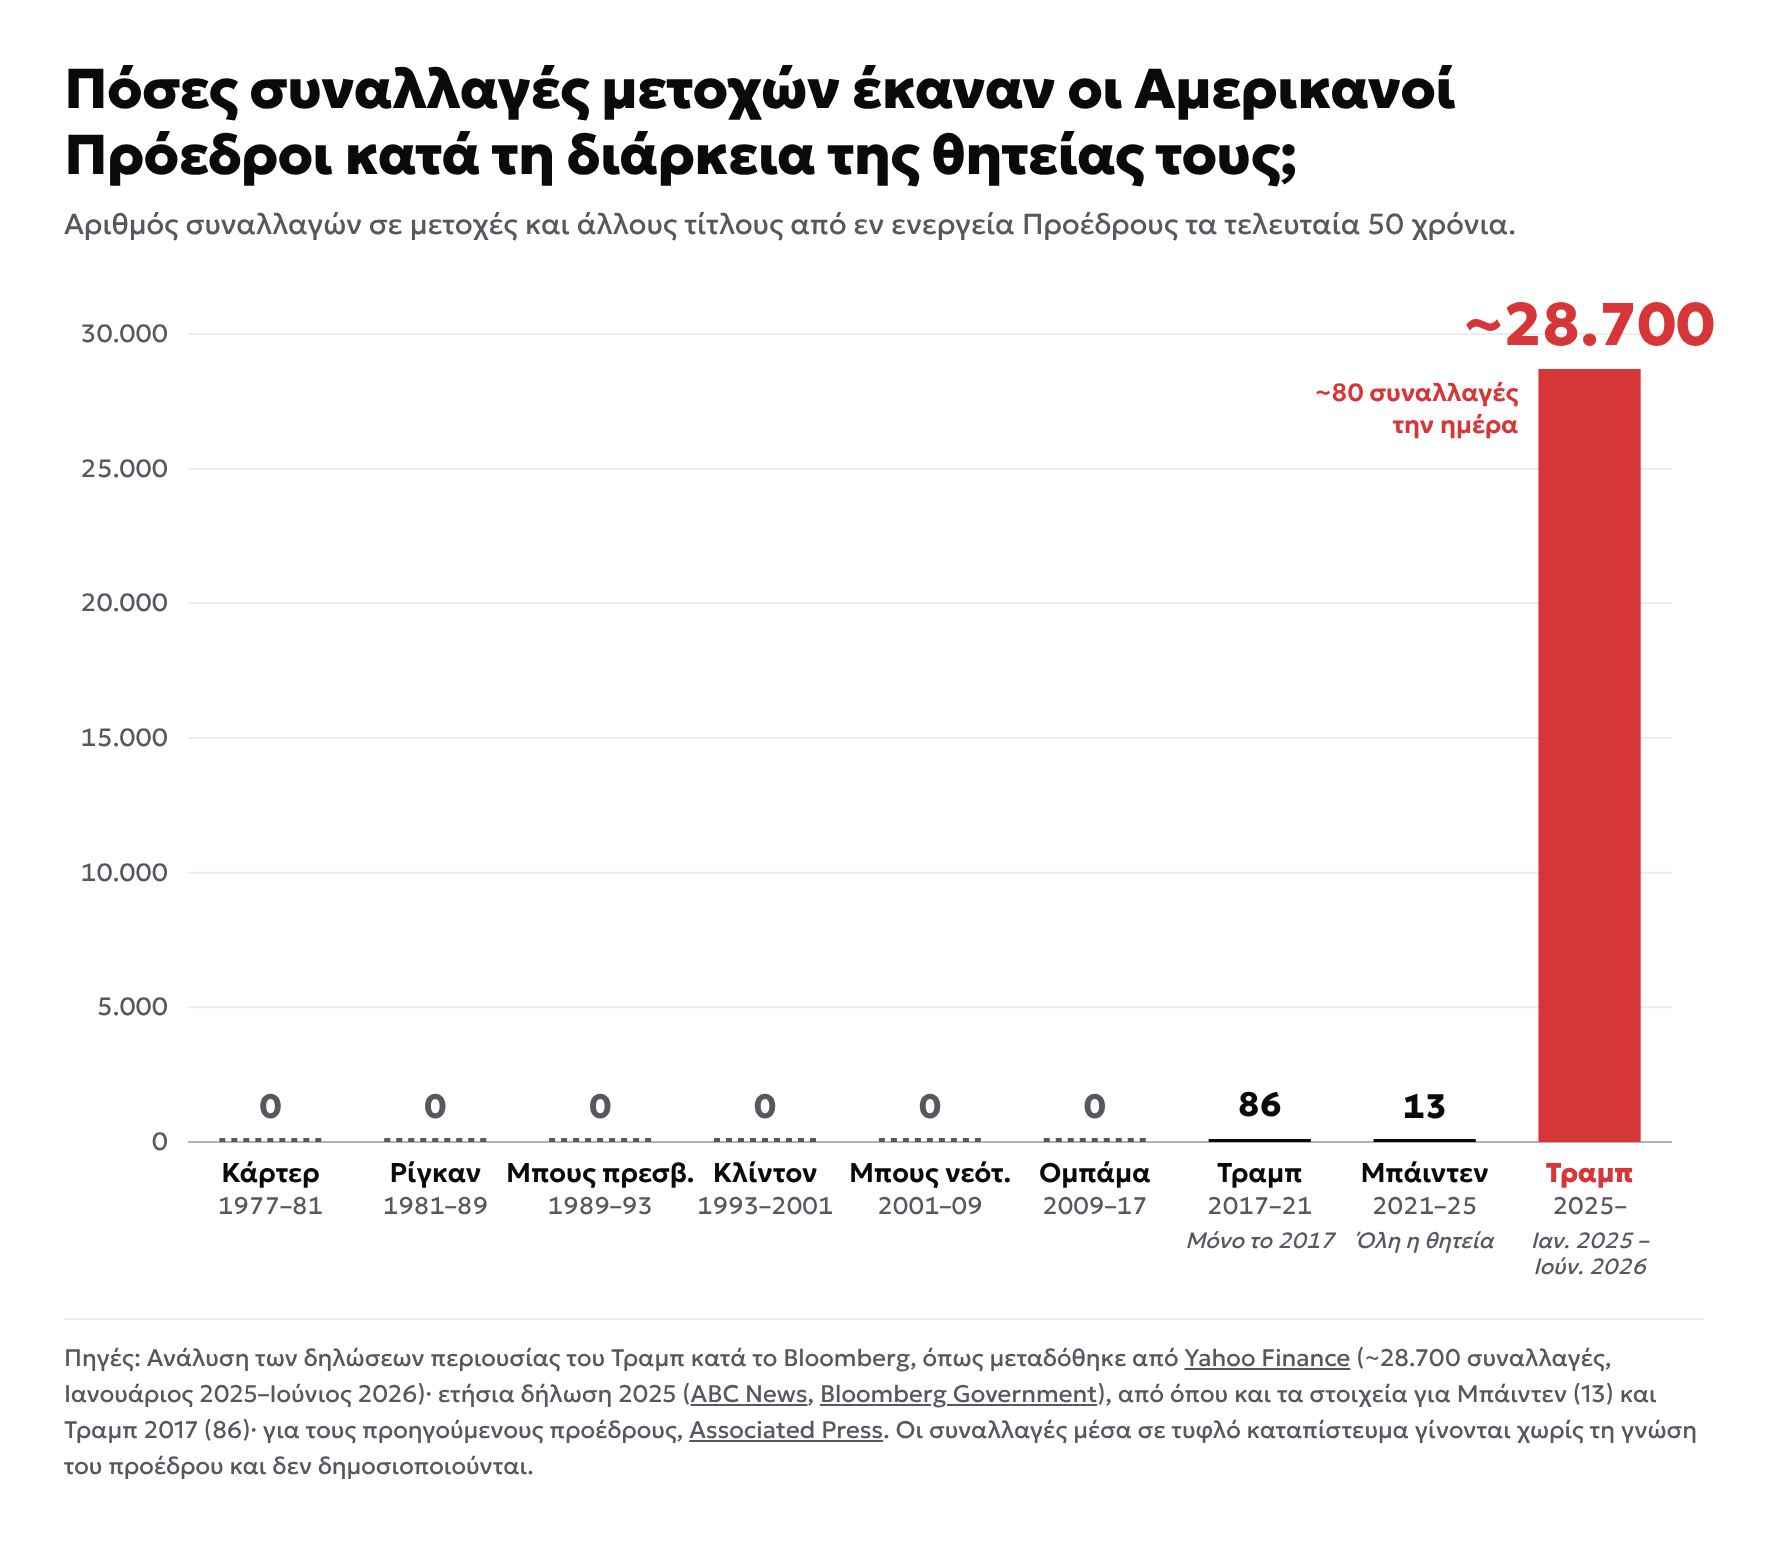
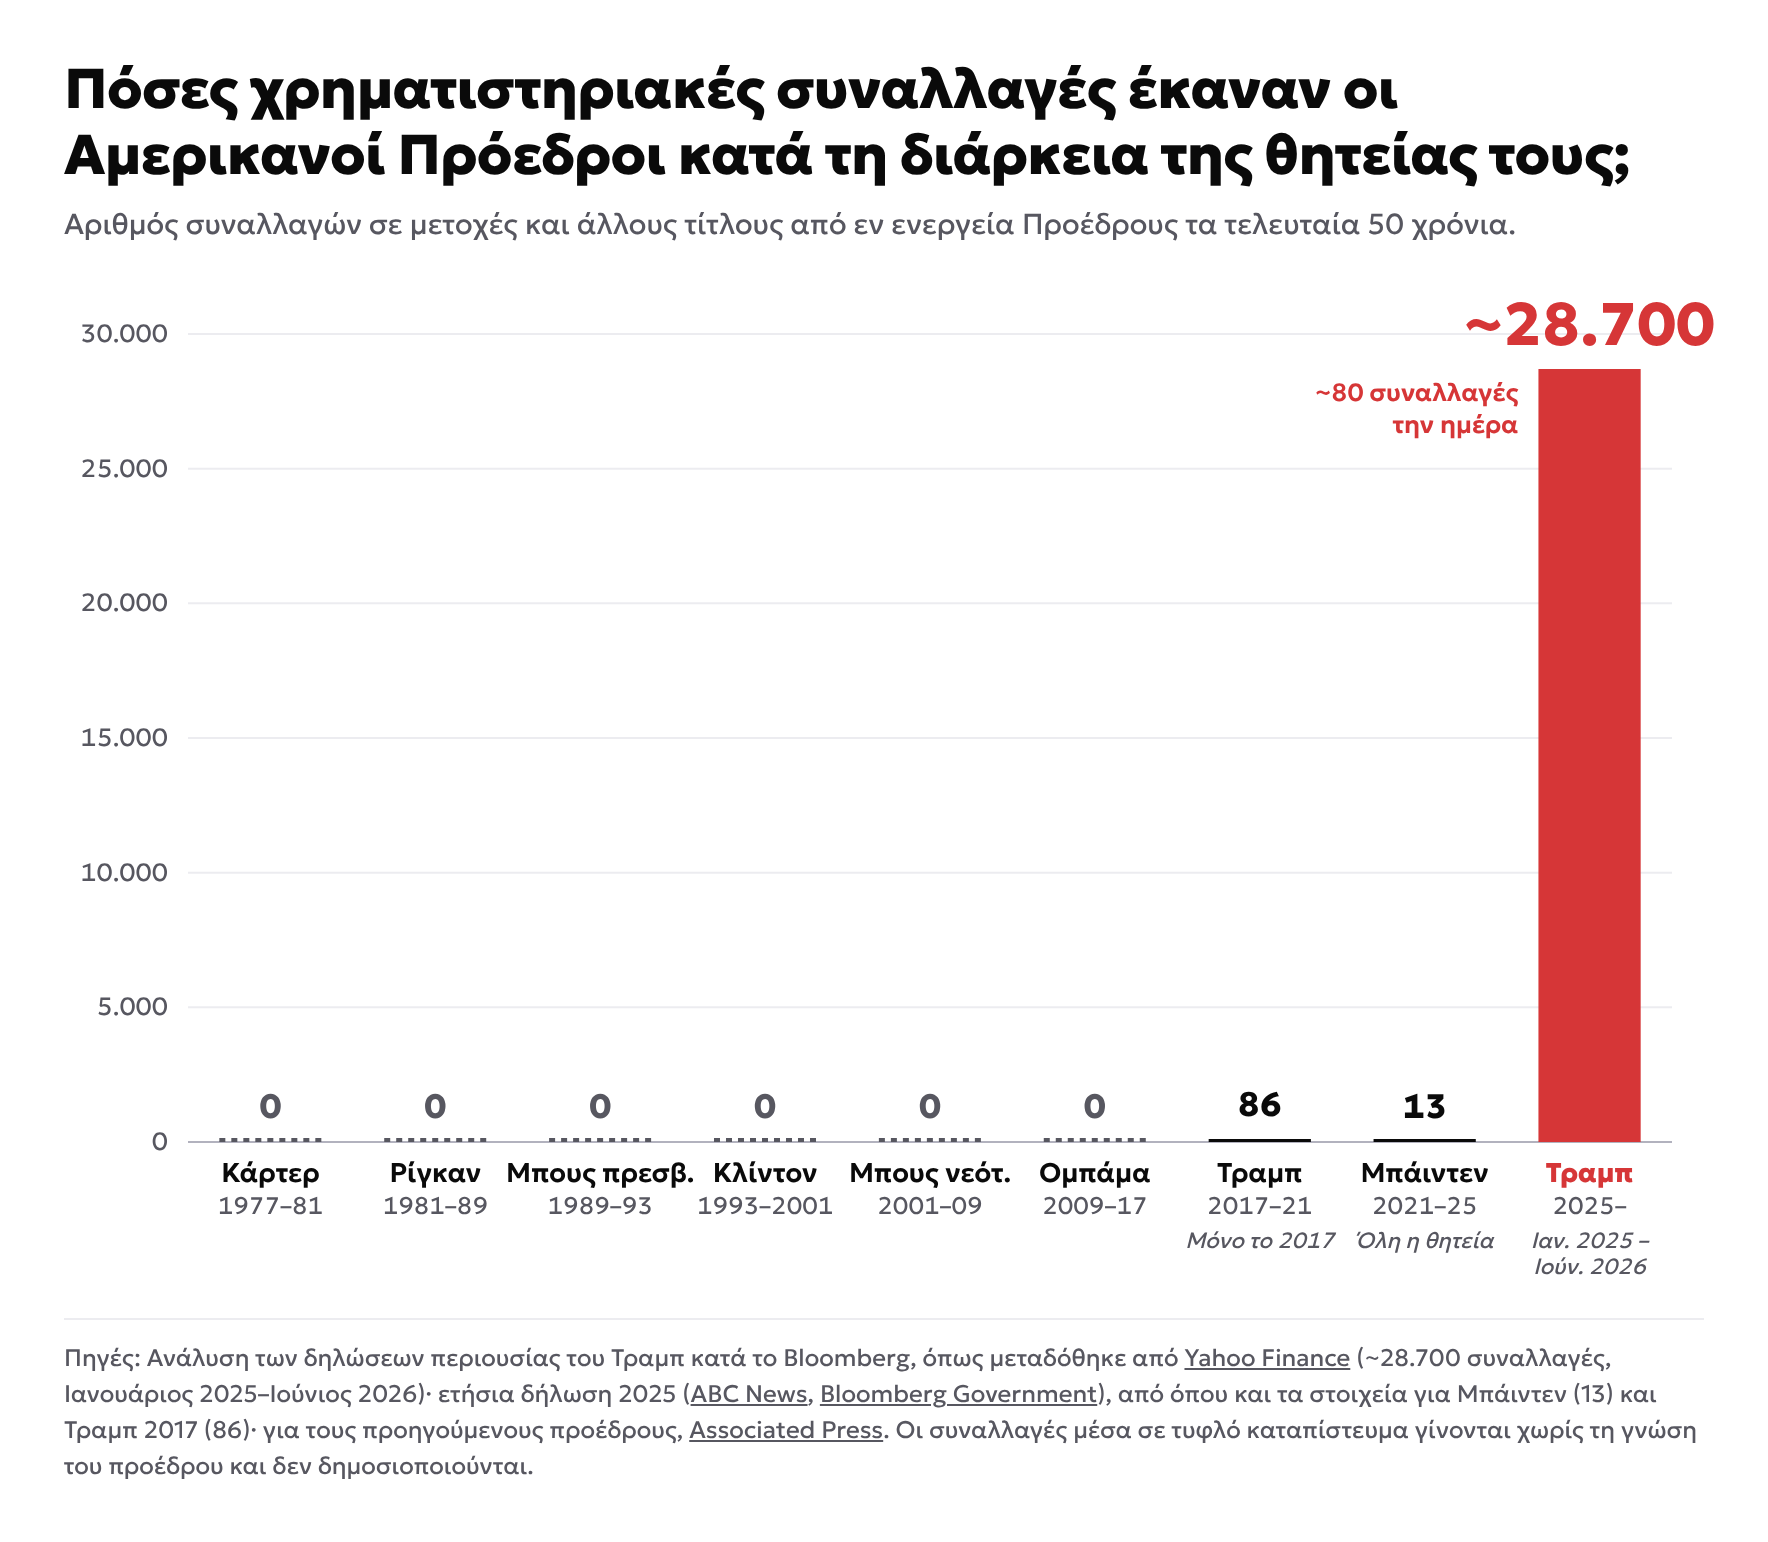
Add files via upload

Changed region(s): [[0.0311, 0.0311, 0.9333, 0.1245]]

diff --git a/presidential-trades-1977-2026/index.html b/presidential-trades-1977-2026/index.html
@@ -1,7 +1,7 @@
 ---
 layout: null
 chart: true
-title: "Πόσες συναλλαγές μετοχών έκαναν οι Αμερικανοί Πρόεδροι;"
+title: "Πόσες χρηματιστηριακές συναλλαγές έκαναν οι Αμερικανοί Πρόεδροι;"
 description: "Δηλώσεις περιουσίας, Κάρτερ–Τραμπ"
 date: 2026-11-14
 thumb: presidential-trades-el.png
@@ -82,7 +82,7 @@ svg.main{display:block;width:100%;height:auto;overflow:visible;font-family:var(-
 </head>
 <body>
 
-<script type="application/json" id="state">{"pres":[{"k":"carter","v":0,"approx":false,"hi":false,"el":{"name":"Κάρτερ","years":"1977–81","note":"","tip":""},"en":{"name":"Carter","years":"1977–81","note":"","tip":""}},{"k":"reagan","v":0,"approx":false,"hi":false,"el":{"name":"Ρίγκαν","years":"1981–89","note":"","tip":""},"en":{"name":"Reagan","years":"1981–89","note":"","tip":""}},{"k":"bush41","v":0,"approx":false,"hi":false,"el":{"name":"Μπους πρεσβ.","years":"1989–93","note":"","tip":""},"en":{"name":"G.H.W. Bush","years":"1989–93","note":"","tip":""}},{"k":"clinton","v":0,"approx":false,"hi":false,"el":{"name":"Κλίντον","years":"1993–2001","note":"","tip":""},"en":{"name":"Clinton","years":"1993–2001","note":"","tip":""}},{"k":"bush43","v":0,"approx":false,"hi":false,"el":{"name":"Μπους νεότ.","years":"2001–09","note":"","tip":""},"en":{"name":"G.W. Bush","years":"2001–09","note":"","tip":""}},{"k":"obama","v":0,"approx":false,"hi":false,"el":{"name":"Ομπάμα","years":"2009–17","note":"","tip":""},"en":{"name":"Obama","years":"2009–17","note":"","tip":""}},{"k":"trump1","v":86,"approx":false,"hi":false,"el":{"name":"Τραμπ","years":"2017–21","note":"Μόνο το 2017","tip":"86 συναλλαγές μετοχών στη δήλωση του 2017· για τα επόμενα έτη δεν υπάρχουν στοιχεία."},"en":{"name":"Trump","years":"2017–21","note":"2017 only","tip":"86 stock transactions on the 2017 report; no data for later years."}},{"k":"biden","v":13,"approx":false,"hi":false,"el":{"name":"Μπάιντεν","years":"2021–25","note":"Όλη η θητεία","tip":"13 συναλλαγές μετοχών σε όλη τη θητεία."},"en":{"name":"Biden","years":"2021–25","note":"Whole term","tip":"13 stock trades over his whole term."}},{"k":"trump2","v":28700,"approx":true,"hi":true,"el":{"name":"Τραμπ","years":"2025–","note":"Ιαν. 2025 – Ιούν. 2026","tip":"Περίπου 28.700 συναλλαγές σε μετοχές, ομόλογα και άλλους τίτλους στους πρώτους 17 μήνες, εκ των οποίων πάνω από 21.000 το 2025. Οι λογαριασμοί διαχειρίζονται από τρίτους, κατά τη Trump Organization."},"en":{"name":"Trump","years":"2025–","note":"Jan. 2025 – June 2026","tip":"About 28,700 trades in stocks, bonds and other securities in the first 17 months, more than 21,000 of them in 2025. The Trump Organization says the accounts are run by third parties."}}],"text":{"el":{"title":"Πόσες συναλλαγές μετοχών έκαναν οι Αμερικανοί Πρόεδροι κατά τη διάρκεια της θητείας τους;","dek":"Αριθμός συναλλαγών σε μετοχές και άλλους τίτλους από εν ενεργεία Προέδρους τα τελευταία 50 χρόνια.","unit":"συναλλαγές","per":"~80 συναλλαγές την ημέρα","foot":"Πηγές: Ανάλυση των δηλώσεων περιουσίας του Τραμπ κατά το Bloomberg, όπως μεταδόθηκε από \u003ca href=\"https://finance.yahoo.com/markets/stocks/articles/huge-problem-trump-traded-more-100000256.html\" target=\"_blank\" rel=\"noopener\">Yahoo Finance\u003c/a> (~28.700 συναλλαγές, Ιανουάριος 2025–Ιούνιος 2026)· ετήσια δήλωση 2025 (\u003ca href=\"https://abcnews.com/Politics/trump-discloses-21000-securities-trades-year-office/story?id=134427666\" target=\"_blank\" rel=\"noopener\">ABC News\u003c/a>, \u003ca href=\"https://news.bgov.com/bloomberg-government-news/trump-financial-disclosure-shows-21-000-trades-in-2025\" target=\"_blank\" rel=\"noopener\">Bloomberg Government\u003c/a>), από όπου και τα στοιχεία για Μπάιντεν (13) και Τραμπ 2017 (86)· για τους προηγούμενους προέδρους, \u003ca href=\"https://wtop.com/business-finance/2026/05/trump-discloses-thousands-of-stock-trades-some-in-companies-directly-influenced-by-his-policies/\" target=\"_blank\" rel=\"noopener\">Associated Press\u003c/a>. Οι συναλλαγές μέσα σε τυφλό καταπίστευμα γίνονται χωρίς τη γνώση του προέδρου και δεν δημοσιοποιούνται. "},"en":{"title":"How many stock trades did U.S. presidents make while in office?","dek":"Number of trades in stocks and other securities by sitting presidents over the last 50 years.","unit":"trades","per":"~80 trades a day","foot":"Sources: Bloomberg analysis of Trump’s financial disclosures, as reported by \u003ca href=\"https://finance.yahoo.com/markets/stocks/articles/huge-problem-trump-traded-more-100000256.html\" target=\"_blank\" rel=\"noopener\">Yahoo Finance\u003c/a> (~28,700 trades, January 2025–June 2026); 2025 annual disclosure (\u003ca href=\"https://abcnews.com/Politics/trump-discloses-21000-securities-trades-year-office/story?id=134427666\" target=\"_blank\" rel=\"noopener\">ABC News\u003c/a>, \u003ca href=\"https://news.bgov.com/bloomberg-government-news/trump-financial-disclosure-shows-21-000-trades-in-2025\" target=\"_blank\" rel=\"noopener\">Bloomberg Government\u003c/a>), which also gives Biden (13) and Trump 2017 (86); for earlier presidents, \u003ca href=\"https://wtop.com/business-finance/2026/05/trump-discloses-thousands-of-stock-trades-some-in-companies-directly-influenced-by-his-policies/\" target=\"_blank\" rel=\"noopener\">Associated Press\u003c/a>. Trades inside a blind trust happen without the president’s knowledge and are not disclosed."}}}</script>
+<script type="application/json" id="state">{"pres":[{"k":"carter","v":0,"approx":false,"hi":false,"el":{"name":"Κάρτερ","years":"1977–81","note":"","tip":""},"en":{"name":"Carter","years":"1977–81","note":"","tip":""}},{"k":"reagan","v":0,"approx":false,"hi":false,"el":{"name":"Ρίγκαν","years":"1981–89","note":"","tip":""},"en":{"name":"Reagan","years":"1981–89","note":"","tip":""}},{"k":"bush41","v":0,"approx":false,"hi":false,"el":{"name":"Μπους πρεσβ.","years":"1989–93","note":"","tip":""},"en":{"name":"G.H.W. Bush","years":"1989–93","note":"","tip":""}},{"k":"clinton","v":0,"approx":false,"hi":false,"el":{"name":"Κλίντον","years":"1993–2001","note":"","tip":""},"en":{"name":"Clinton","years":"1993–2001","note":"","tip":""}},{"k":"bush43","v":0,"approx":false,"hi":false,"el":{"name":"Μπους νεότ.","years":"2001–09","note":"","tip":""},"en":{"name":"G.W. Bush","years":"2001–09","note":"","tip":""}},{"k":"obama","v":0,"approx":false,"hi":false,"el":{"name":"Ομπάμα","years":"2009–17","note":"","tip":""},"en":{"name":"Obama","years":"2009–17","note":"","tip":""}},{"k":"trump1","v":86,"approx":false,"hi":false,"el":{"name":"Τραμπ","years":"2017–21","note":"Μόνο το 2017","tip":"86 συναλλαγές μετοχών στη δήλωση του 2017· για τα επόμενα έτη δεν υπάρχουν στοιχεία."},"en":{"name":"Trump","years":"2017–21","note":"2017 only","tip":"86 stock transactions on the 2017 report; no data for later years."}},{"k":"biden","v":13,"approx":false,"hi":false,"el":{"name":"Μπάιντεν","years":"2021–25","note":"Όλη η θητεία","tip":"13 συναλλαγές μετοχών σε όλη τη θητεία."},"en":{"name":"Biden","years":"2021–25","note":"Whole term","tip":"13 stock trades over his whole term."}},{"k":"trump2","v":28700,"approx":true,"hi":true,"el":{"name":"Τραμπ","years":"2025–","note":"Ιαν. 2025 – Ιούν. 2026","tip":"Περίπου 28.700 συναλλαγές σε μετοχές, ομόλογα και άλλους τίτλους στους πρώτους 17 μήνες, εκ των οποίων πάνω από 21.000 το 2025. Οι λογαριασμοί διαχειρίζονται από τρίτους, κατά τη Trump Organization."},"en":{"name":"Trump","years":"2025–","note":"Jan. 2025 – June 2026","tip":"About 28,700 trades in stocks, bonds and other securities in the first 17 months, more than 21,000 of them in 2025. The Trump Organization says the accounts are run by third parties."}}],"text":{"el":{"title":"Πόσες χρηματιστηριακές συναλλαγές έκαναν οι Αμερικανοί Πρόεδροι κατά τη διάρκεια της θητείας τους;","dek":"Αριθμός συναλλαγών σε μετοχές και άλλους τίτλους από εν ενεργεία Προέδρους τα τελευταία 50 χρόνια.","unit":"συναλλαγές","per":"~80 συναλλαγές την ημέρα","foot":"Πηγές: Ανάλυση των δηλώσεων περιουσίας του Τραμπ κατά το Bloomberg, όπως μεταδόθηκε από \u003ca href=\"https://finance.yahoo.com/markets/stocks/articles/huge-problem-trump-traded-more-100000256.html\" target=\"_blank\" rel=\"noopener\">Yahoo Finance\u003c/a> (~28.700 συναλλαγές, Ιανουάριος 2025–Ιούνιος 2026)· ετήσια δήλωση 2025 (\u003ca href=\"https://abcnews.com/Politics/trump-discloses-21000-securities-trades-year-office/story?id=134427666\" target=\"_blank\" rel=\"noopener\">ABC News\u003c/a>, \u003ca href=\"https://news.bgov.com/bloomberg-government-news/trump-financial-disclosure-shows-21-000-trades-in-2025\" target=\"_blank\" rel=\"noopener\">Bloomberg Government\u003c/a>), από όπου και τα στοιχεία για Μπάιντεν (13) και Τραμπ 2017 (86)· για τους προηγούμενους προέδρους, \u003ca href=\"https://wtop.com/business-finance/2026/05/trump-discloses-thousands-of-stock-trades-some-in-companies-directly-influenced-by-his-policies/\" target=\"_blank\" rel=\"noopener\">Associated Press\u003c/a>. Οι συναλλαγές μέσα σε τυφλό καταπίστευμα γίνονται χωρίς τη γνώση του προέδρου και δεν δημοσιοποιούνται. "},"en":{"title":"How many stock trades did U.S. presidents make while in office?","dek":"Number of trades in stocks and other securities by sitting presidents over the last 50 years.","unit":"trades","per":"~80 trades a day","foot":"Sources: Bloomberg analysis of Trump’s financial disclosures, as reported by \u003ca href=\"https://finance.yahoo.com/markets/stocks/articles/huge-problem-trump-traded-more-100000256.html\" target=\"_blank\" rel=\"noopener\">Yahoo Finance\u003c/a> (~28,700 trades, January 2025–June 2026); 2025 annual disclosure (\u003ca href=\"https://abcnews.com/Politics/trump-discloses-21000-securities-trades-year-office/story?id=134427666\" target=\"_blank\" rel=\"noopener\">ABC News\u003c/a>, \u003ca href=\"https://news.bgov.com/bloomberg-government-news/trump-financial-disclosure-shows-21-000-trades-in-2025\" target=\"_blank\" rel=\"noopener\">Bloomberg Government\u003c/a>), which also gives Biden (13) and Trump 2017 (86); for earlier presidents, \u003ca href=\"https://wtop.com/business-finance/2026/05/trump-discloses-thousands-of-stock-trades-some-in-companies-directly-influenced-by-his-policies/\" target=\"_blank\" rel=\"noopener\">Associated Press\u003c/a>. Trades inside a blind trust happen without the president’s knowledge and are not disclosed."}}}</script>
 <script type="text/plain" id="tpl"></script>
 
 <div class="wrap">
